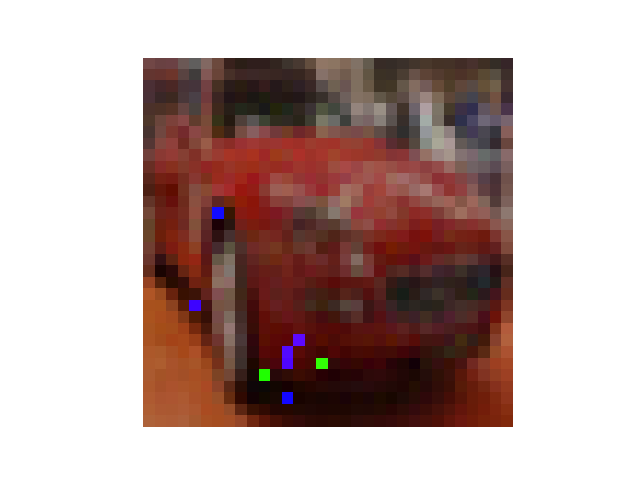
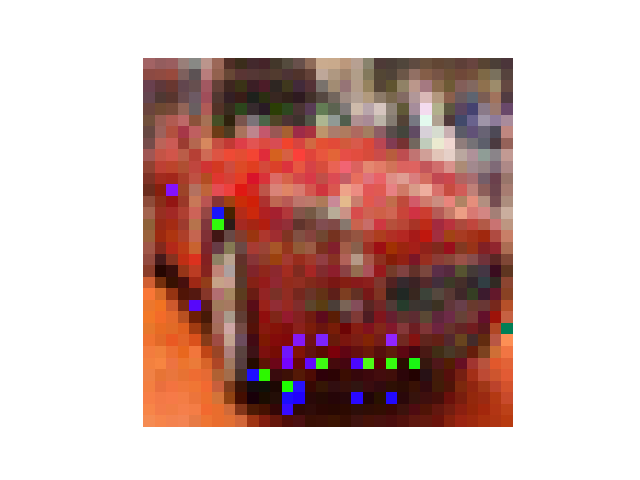
Switched code lines
Switched code lines to make use of mse loss over quantile

diff --git a/recursive_attack.py b/recursive_attack.py
@@ -24,11 +24,11 @@ def inverse_udldu(udldu):
                                     (1 - quantile - (udldu_ - udldu) > 0) * (1 - quantile - (udldu_ - udldu)))).item()
         return loss
 
-    # def objective_mse(u):
-    #     u = torch.tensor(u).to(**setup)
-    #     udldu_ = -u / (1 + torch.exp(u))
-    #     loss = torch.mean((udldu_ - udldu) ** 2).item()
-    #     return loss
+    def objective_mse(u):
+        u = torch.tensor(u).to(**setup)
+        udldu_ = -u / (1 + torch.exp(u))
+        loss = torch.mean((udldu_ - udldu) ** 2).item()
+        return loss
 
     # Define bounds to -100 and 100
     bounds = [(-1, 1)]  # Adjusted bounds
@@ -54,8 +54,8 @@ def inverse_udldu(udldu):
         nonlocal iteration_count, convergence_iteration, best_solution, best_objective, best_solution_value
         iteration_count += 1
         # print(f"Iteration: {iteration_count}")
-        current_objective = objective_quantile(xk)
-        #current_objective = objective_mse(xk)
+        #current_objective = objective_quantile(xk)
+        current_objective = objective_mse(xk)
         print(f"Iteration: {iteration_count}, Current Solution: {xk[0]}, Objective Value: {current_objective}")
 
         all_solutions.append(xk[0])
@@ -111,12 +111,12 @@ def inverse_udldu(udldu):
     # Perform Differential Evolution optimization with updated population size
     # result = differential_evolution(objective_quantile, bounds, popsize=10, callback=callback_function, maxiter=max_iterations, polish=False, init='latinhypercube', updating='deferred')
     while iteration_count < min_iterations:
-        result = differential_evolution(objective_quantile, bounds, popsize=10, callback=callback_function,
-                                        maxiter=max_iterations, polish=False, init='latinhypercube',
-                                        updating='deferred')
-        # result = differential_evolution(objective_mse, bounds, popsize=10, callback=callback_function,
+        # result = differential_evolution(objective_quantile, bounds, popsize=10, callback=callback_function,
         #                                 maxiter=max_iterations, polish=False, init='latinhypercube',
         #                                 updating='deferred')
+        result = differential_evolution(objective_mse, bounds, popsize=10, callback=callback_function,
+                                        maxiter=max_iterations, polish=False, init='latinhypercube',
+                                        updating='deferred')
         if result.success and iteration_count >= min_iterations:
             best_solution = result.x
             best_objective = result.fun
